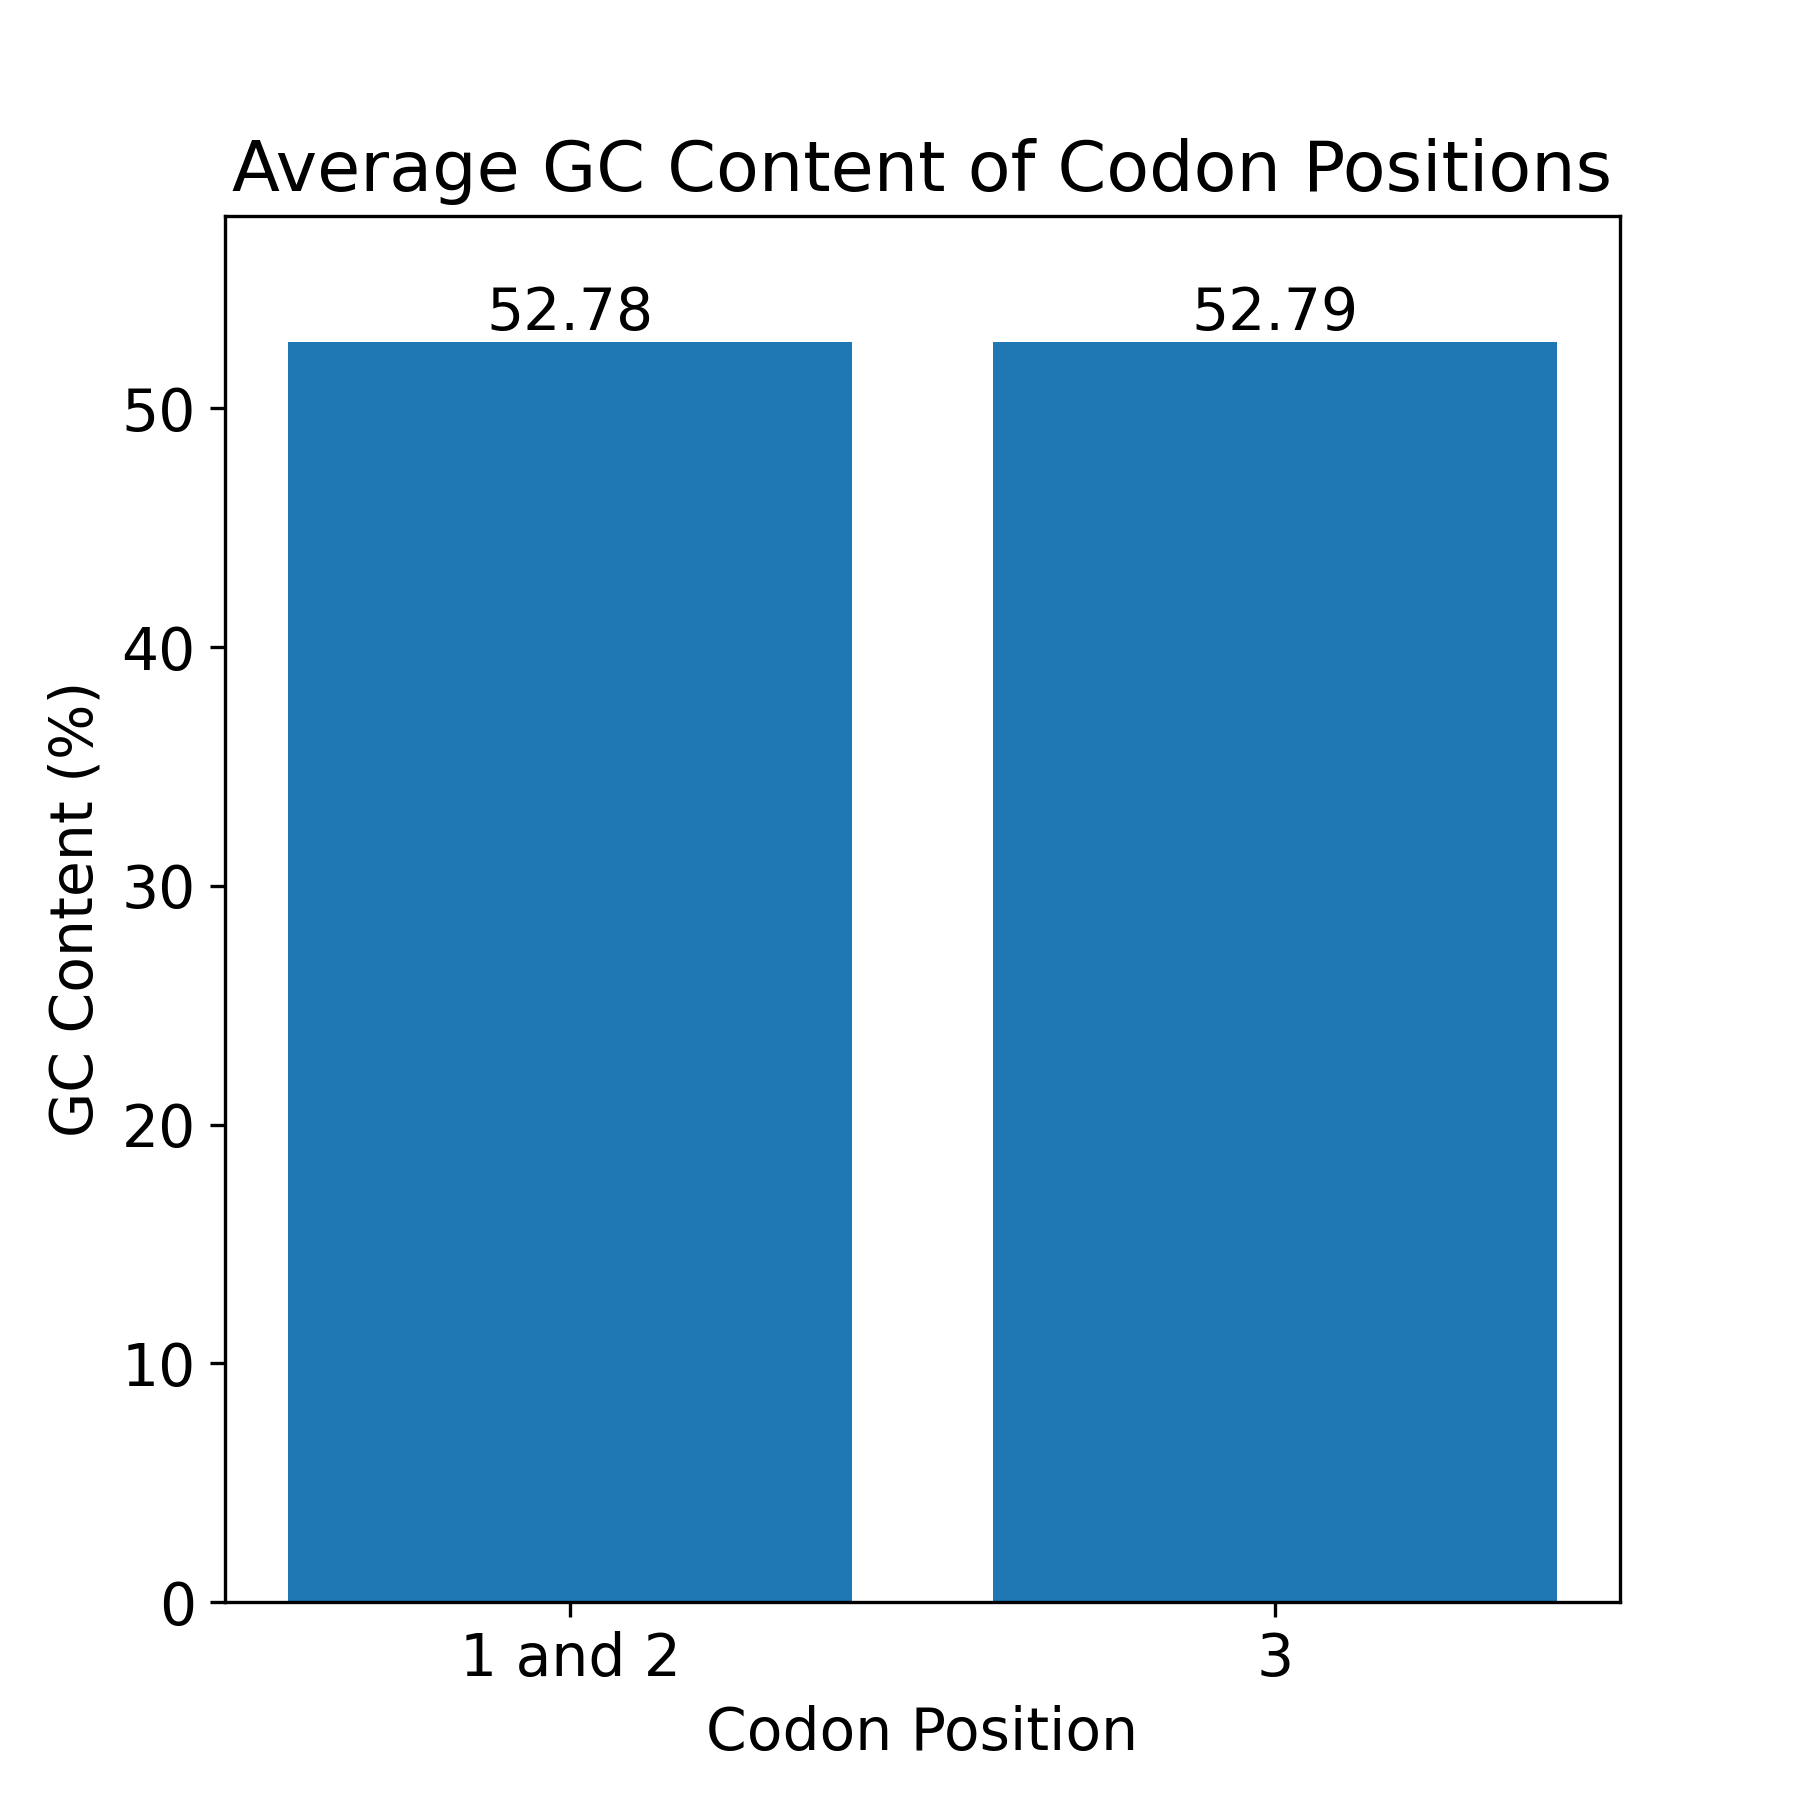
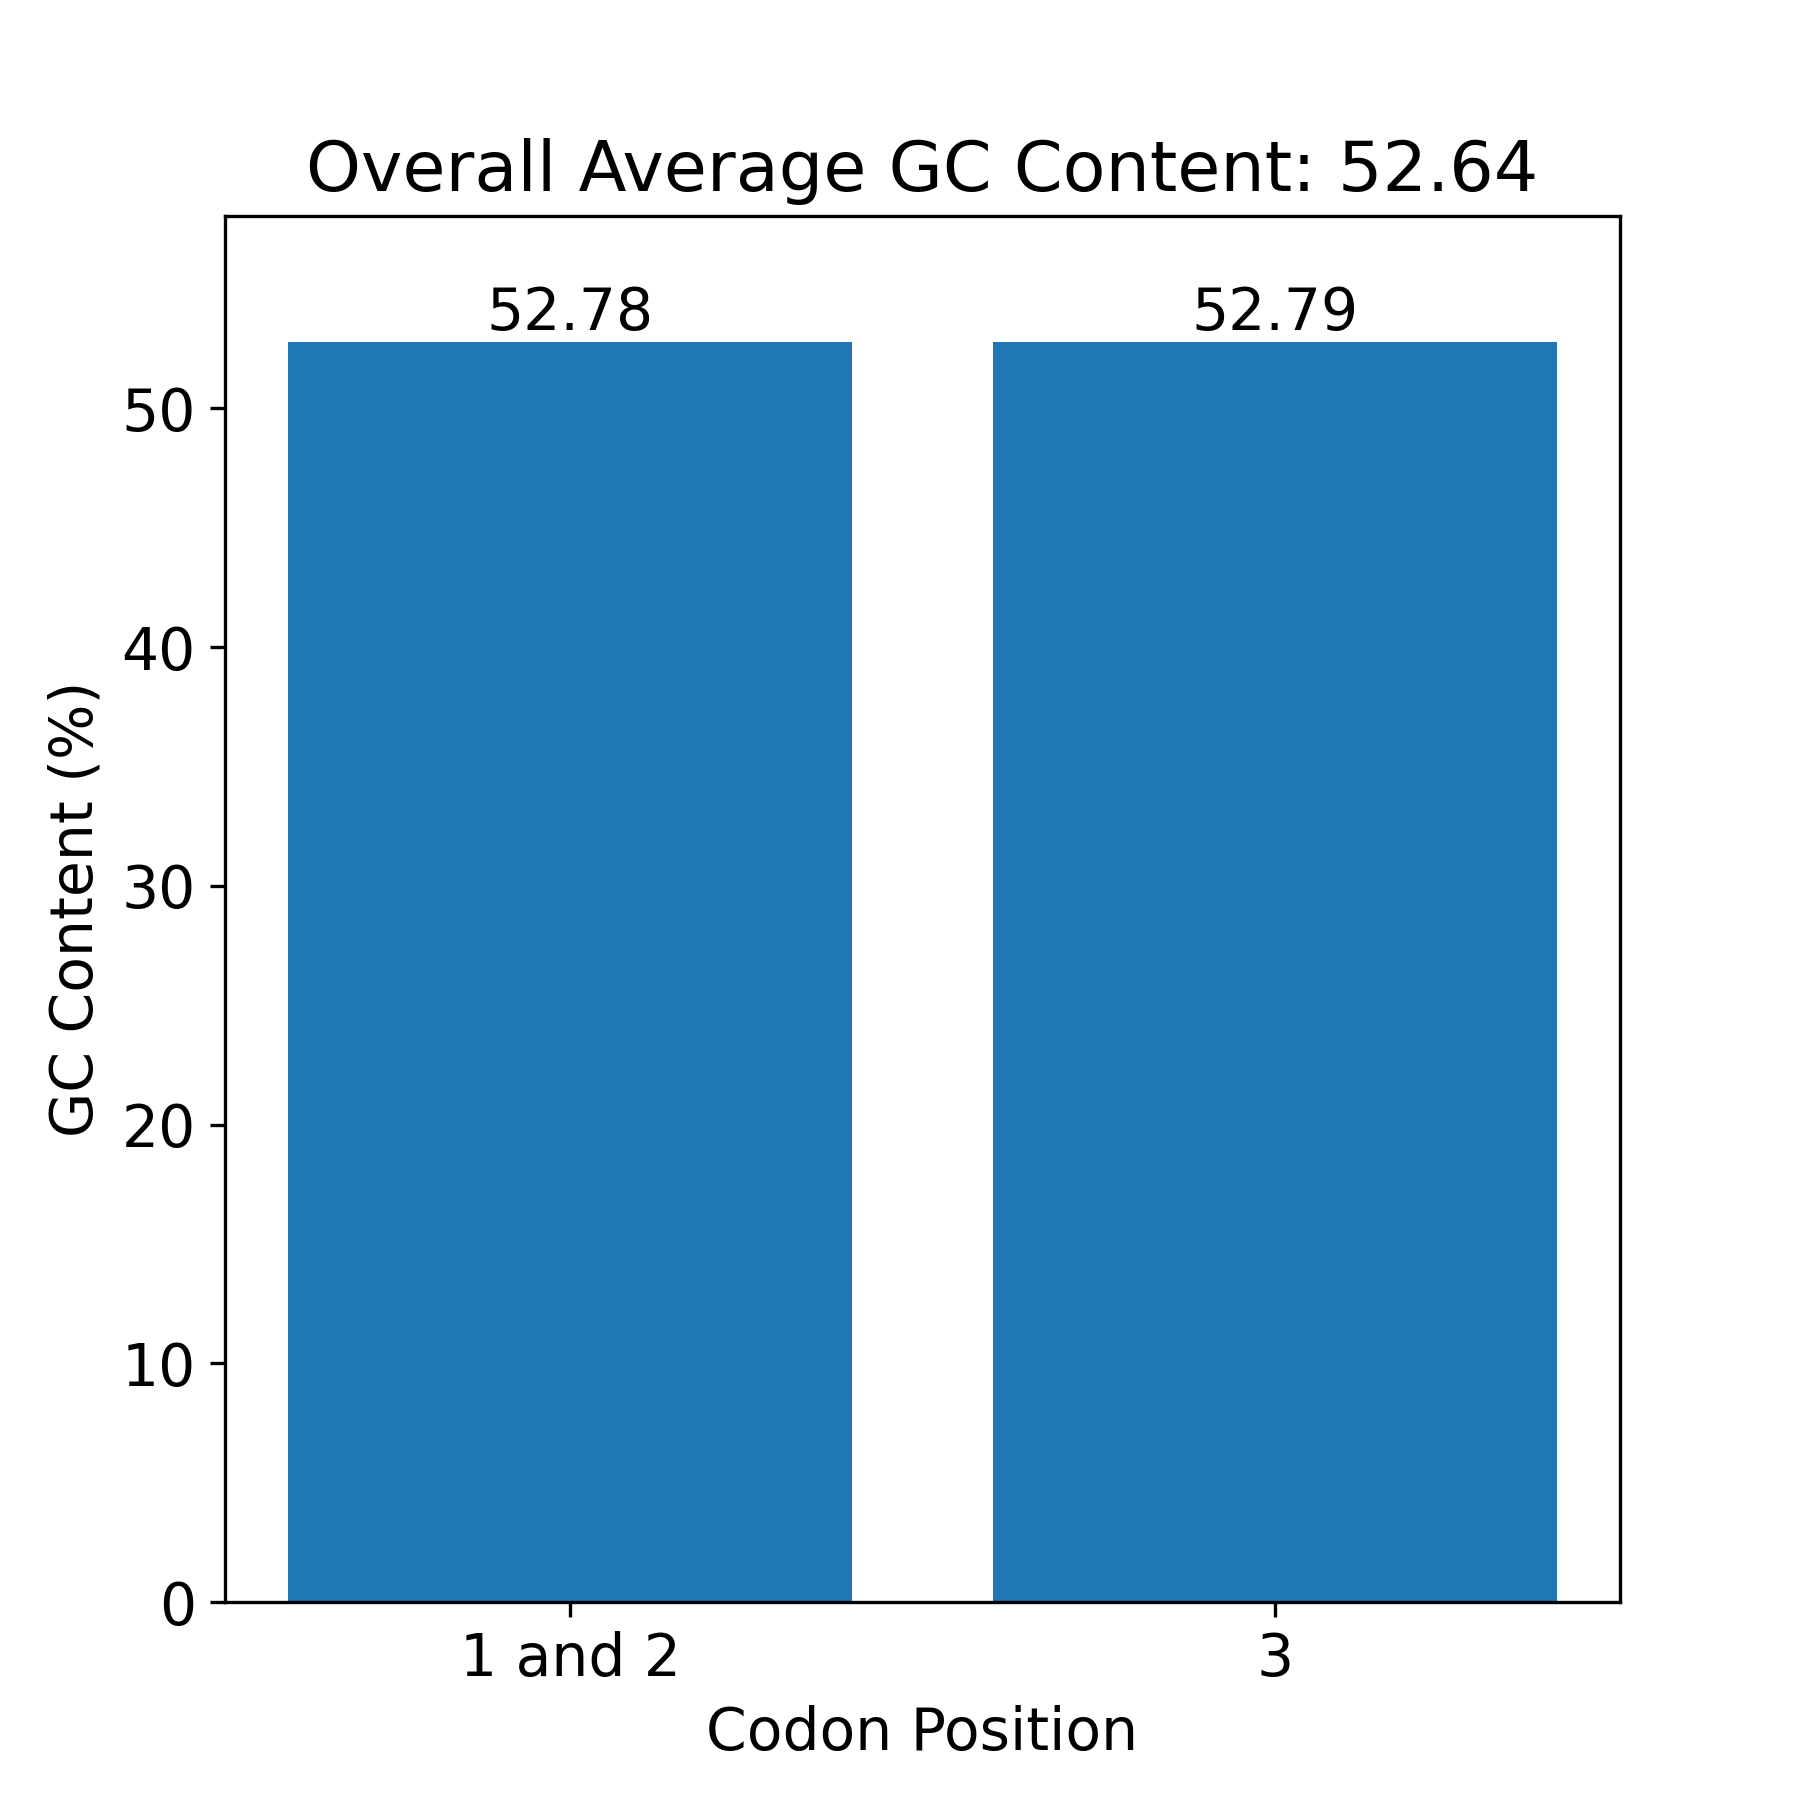
updated GC content bar graph

Changed region(s): [[0.1244, 0.0622, 0.9022, 0.1244]]

diff --git a/plotting.py b/plotting.py
@@ -79,6 +79,7 @@ def gc(sequence: str, window_size: int, lineplot_filename: str, bar_filename: st
 
     # plotting average GC content of bp 1 and 2 vs 3 in codons
     bp = ['1 and 2', '3']
+    gc_all = analysis.gc(sequence)
     gc12 = (sum(data[0::3])+sum(data[1::3])) / (len(data[0::3]) + len(data[1::3]))
     gc3 = sum(data[2::3]) / len(data[2::3])
 
@@ -90,7 +91,7 @@ def gc(sequence: str, window_size: int, lineplot_filename: str, bar_filename: st
     ax.set_xlabel('Codon Position')
     ax.set_ylabel('GC Content (%)')
     ax.set_ylim(0, max(gc12, gc3) * 1.1) # add 10% headroom to bars for labels
-    ax.set_title('Average GC Content of Codon Positions')
+    ax.set_title(f'Overall Average GC Content: {gc_all:.2f}')
 
     # save figure and close plot
     fig.savefig(bar_filename, dpi=300) 

diff --git a/main.py b/main.py
@@ -58,7 +58,6 @@ with open(output_filename, 'w') as file:
         file.write(key + ': ' + str(val) + '\n')
 
 # calculating gc content and plotting it
-print(analysis.gc(seqs[0]))
 output_filename = os.path.join(plot_output_dir, f'{safe_name}_gc.png')
 output2_filename = os.path.join(plot_output_dir, f'{safe_name}_gc_bp.png')
 plotting.gc(seqs[0], 30, output_filename, output2_filename)
